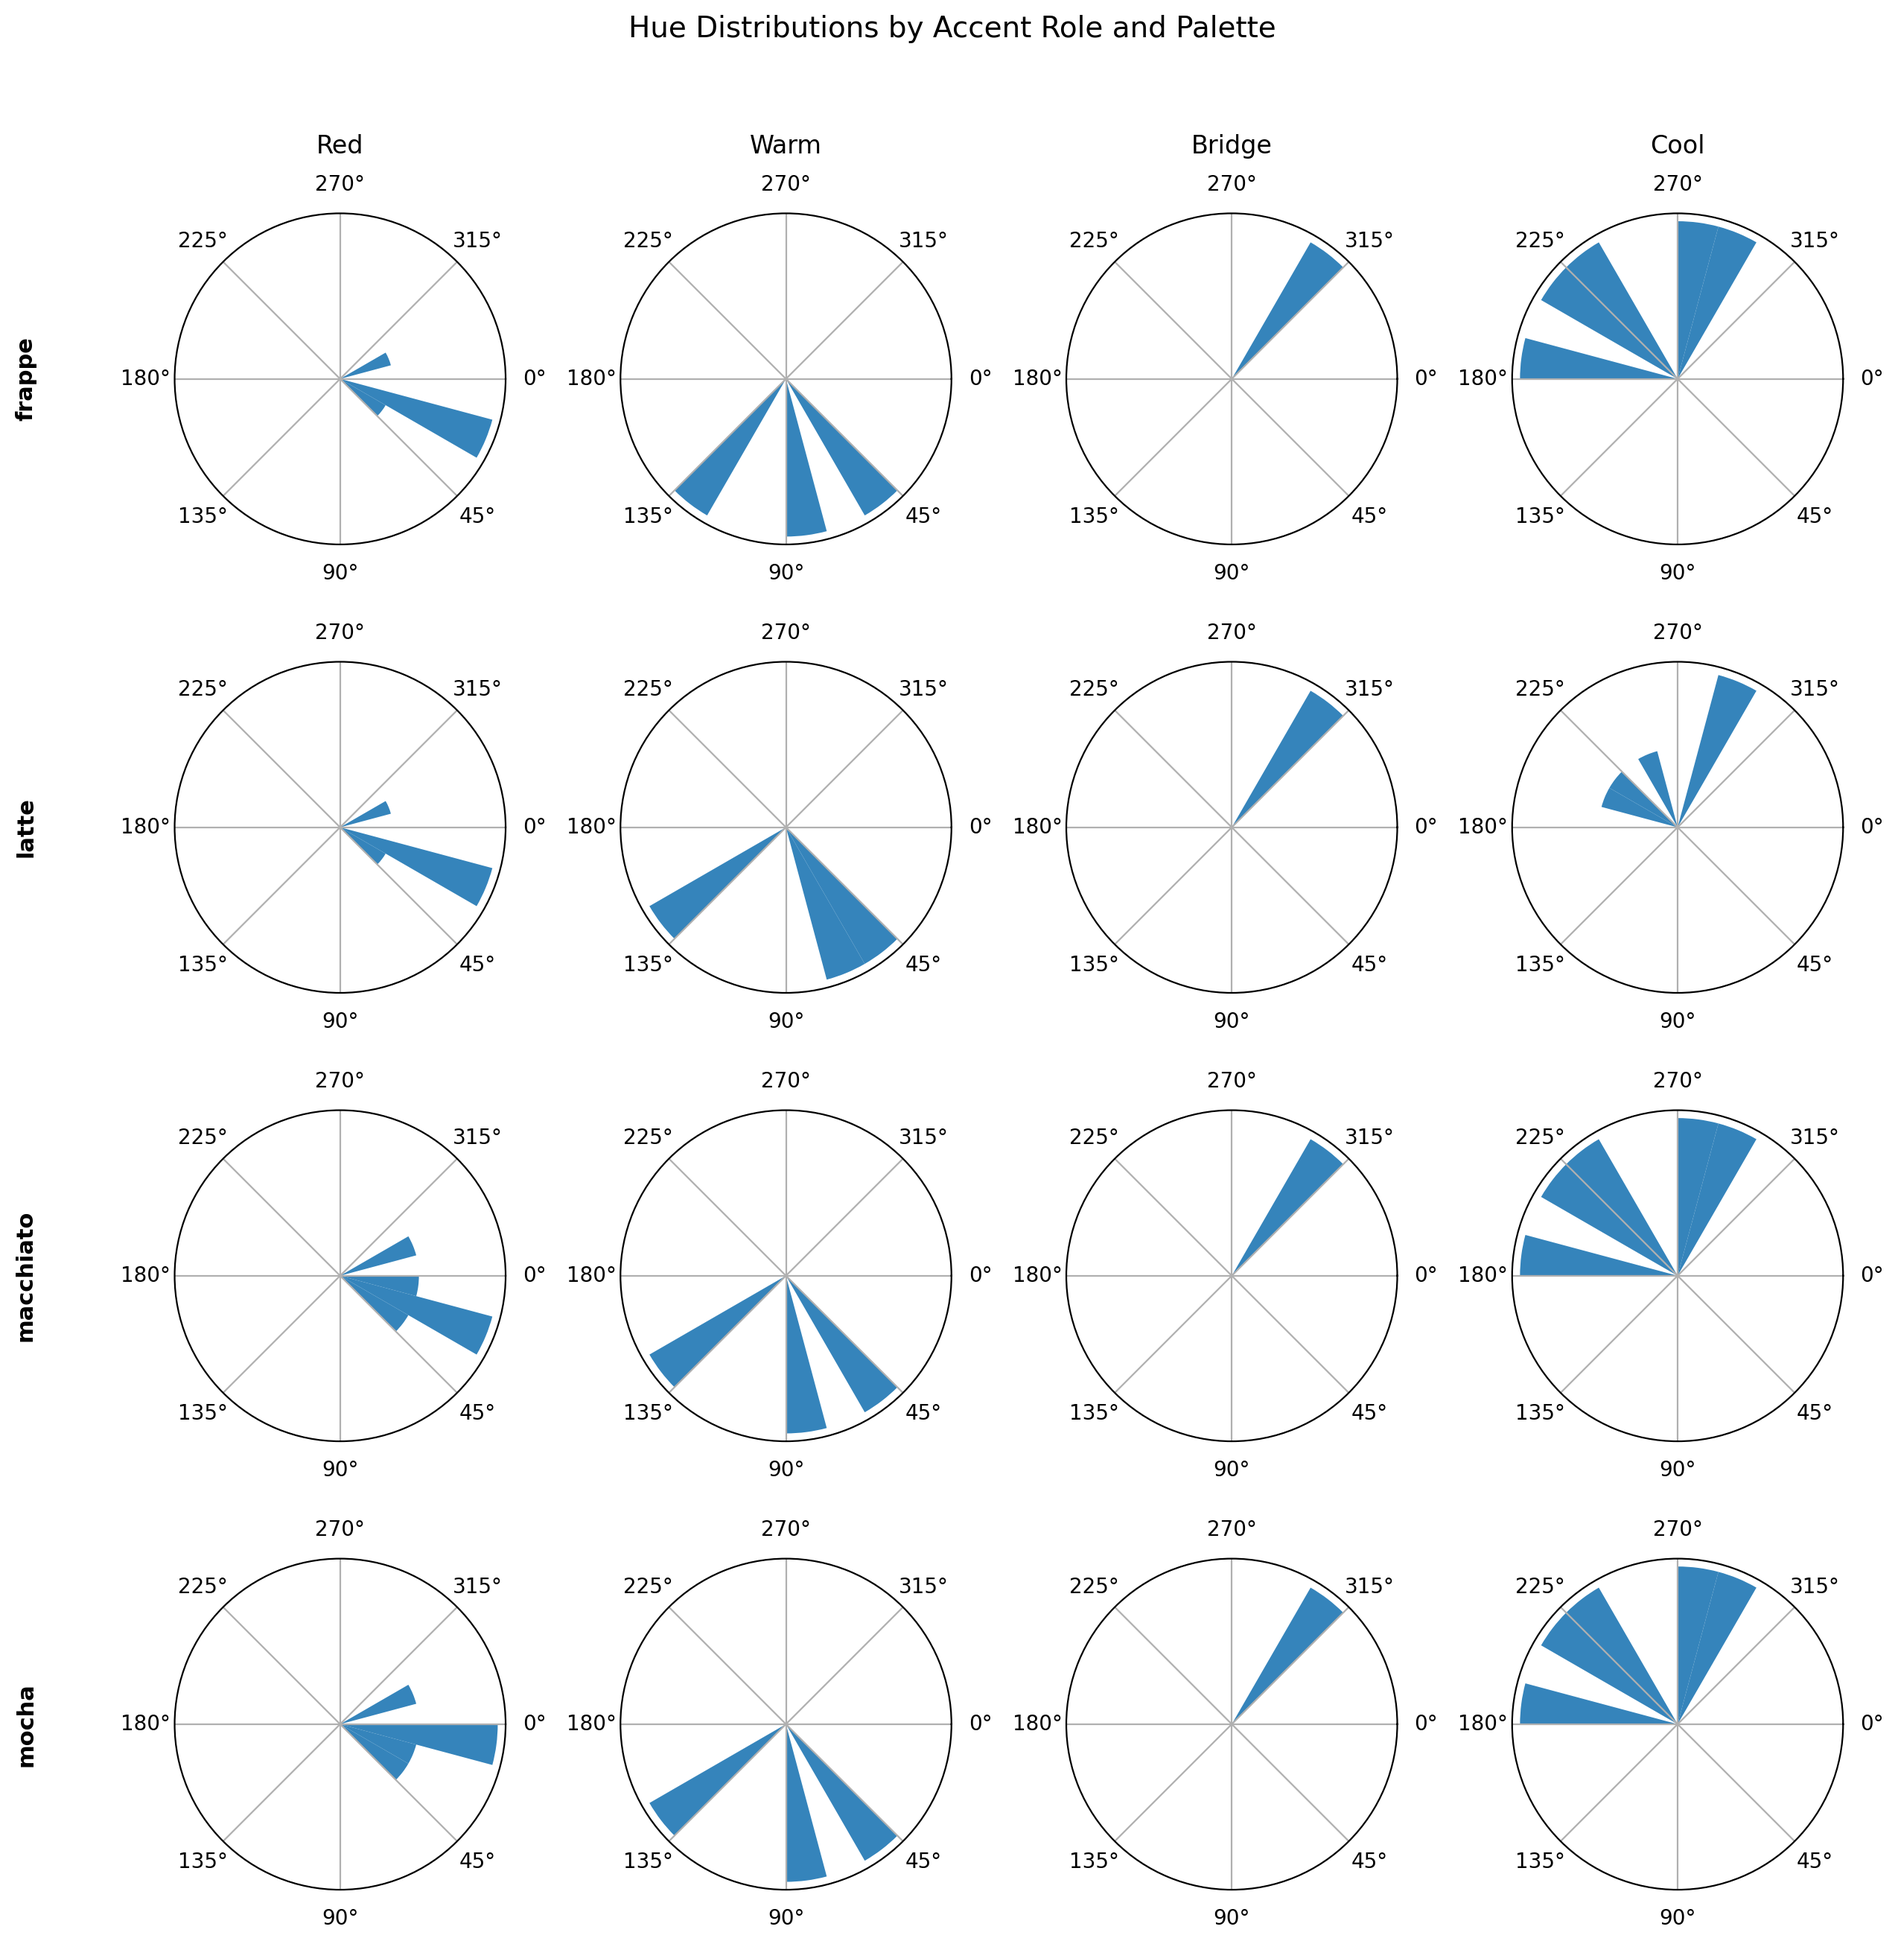
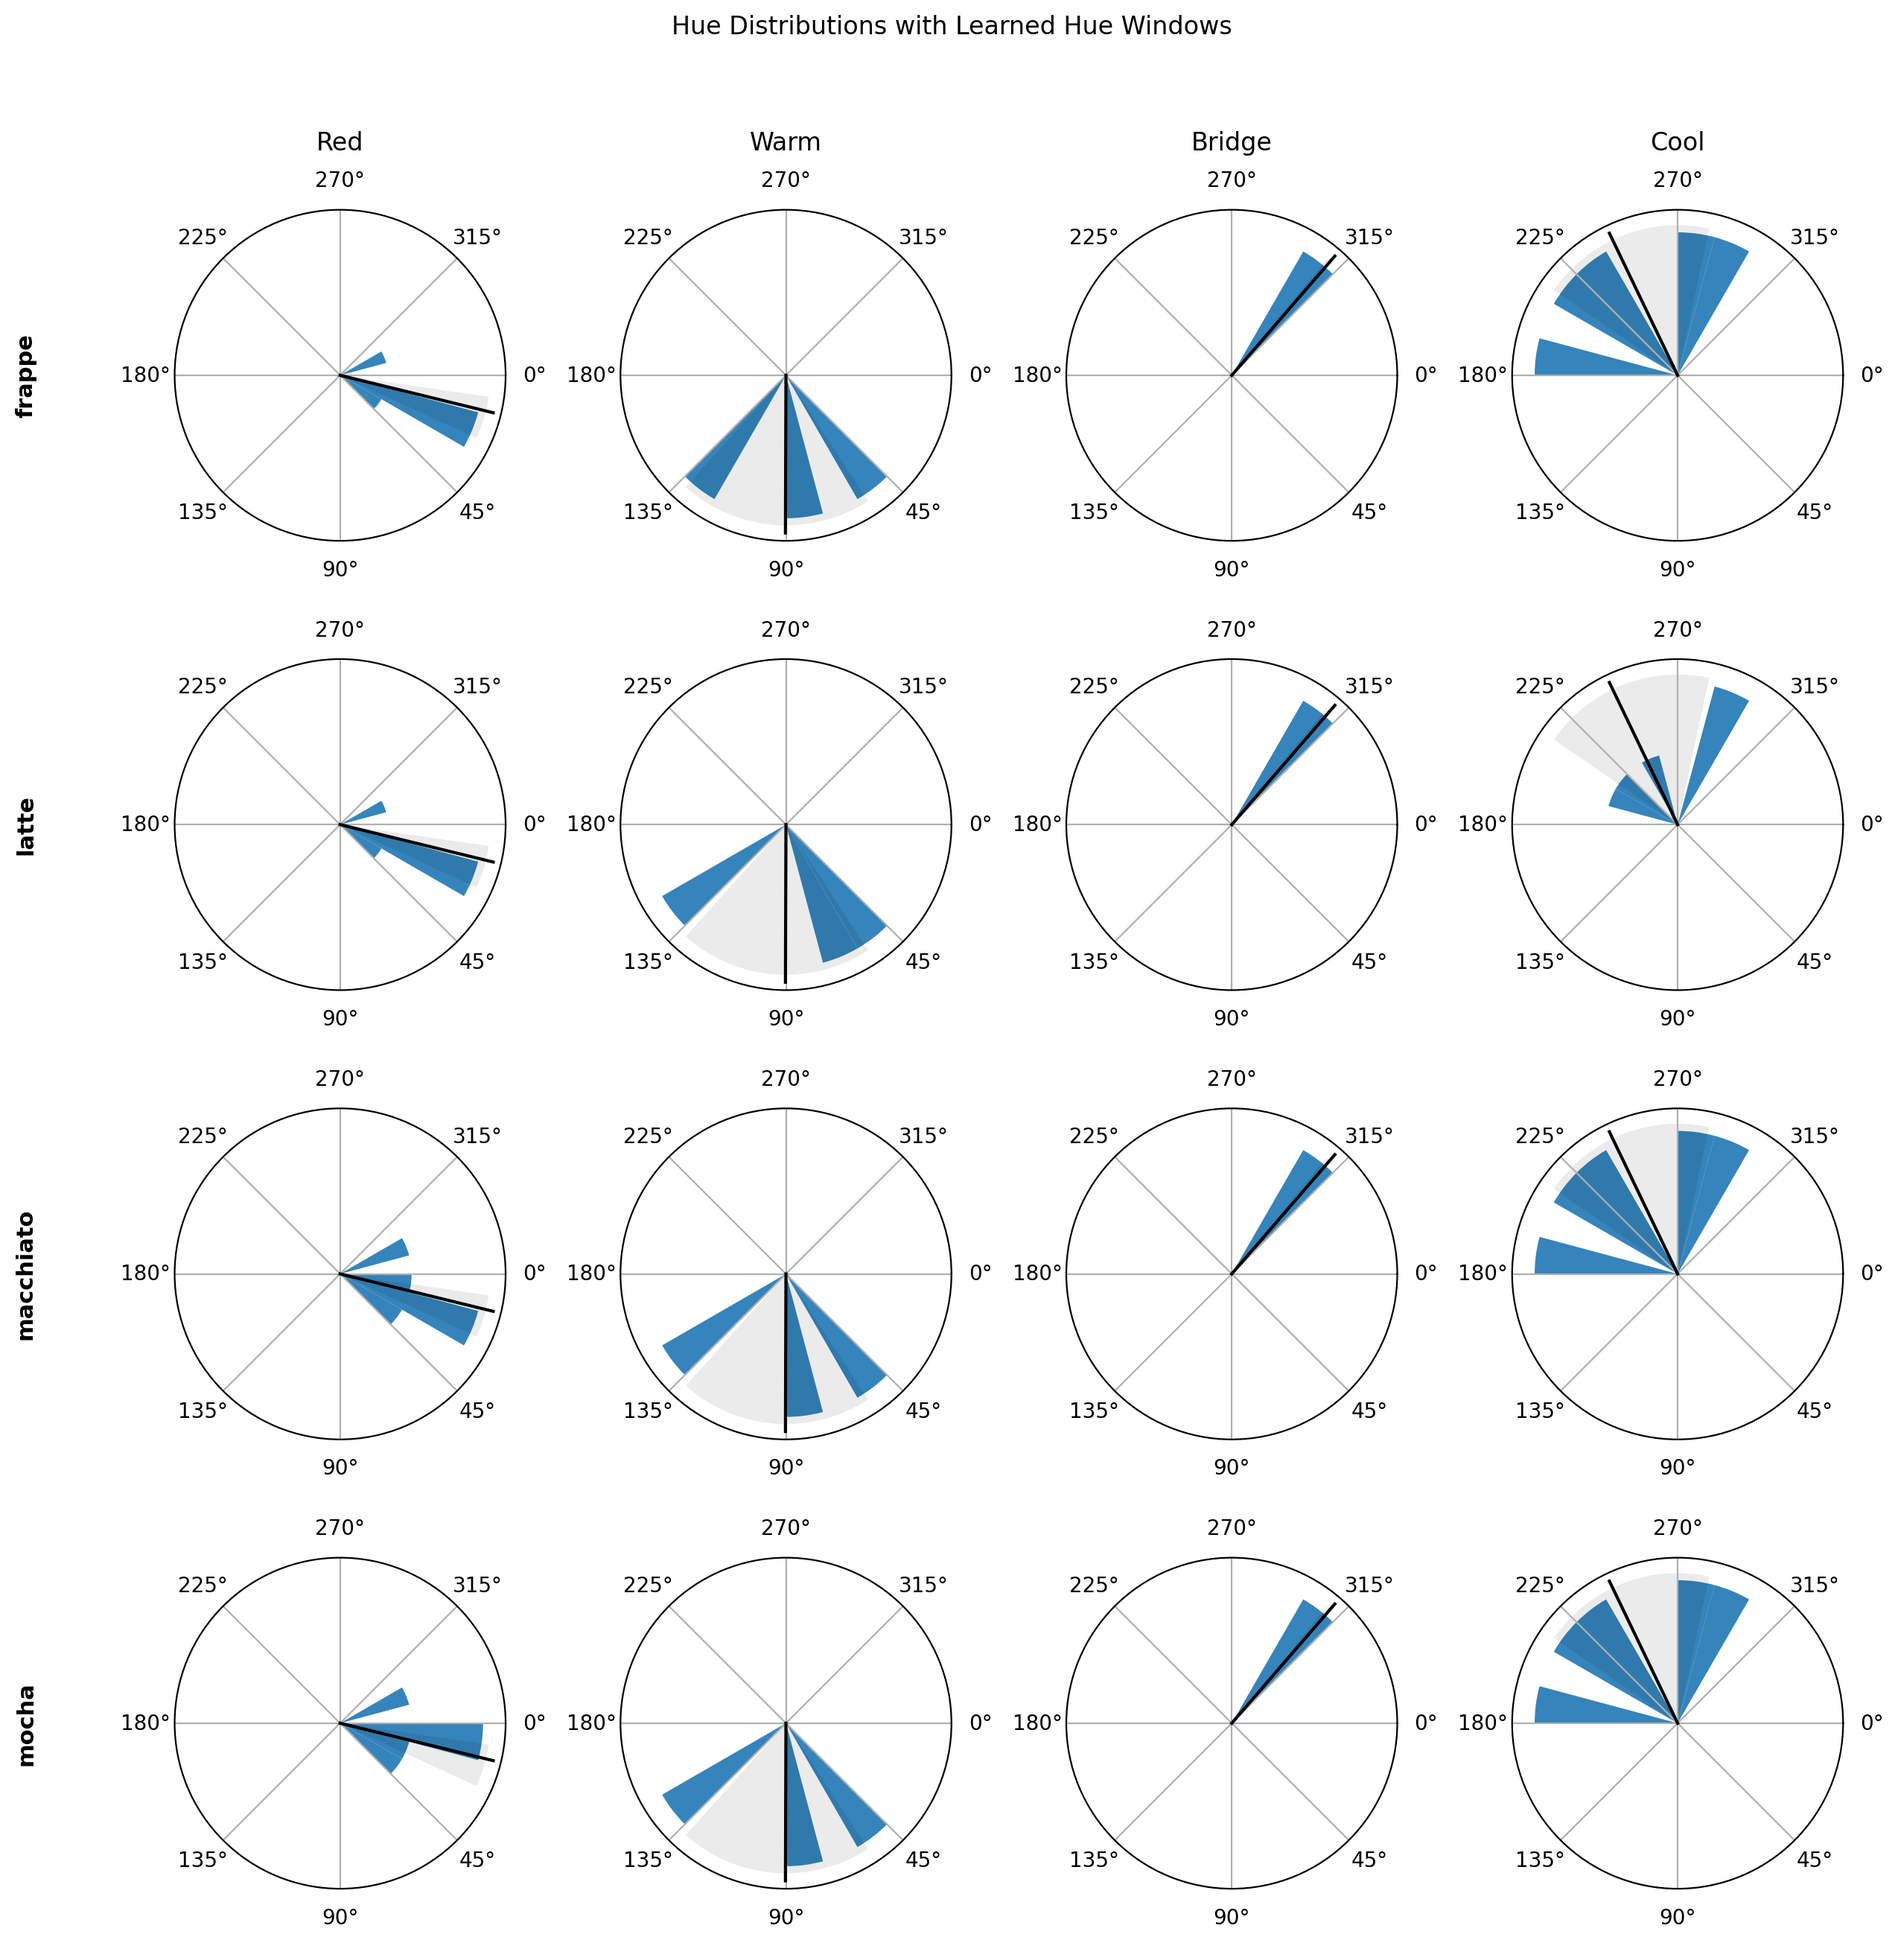
Hue plot constraint windows.

diff --git a/src/plot_hue_trend.py b/src/plot_hue_trend.py
@@ -26,9 +26,37 @@ ROLE_LABELS = {
 N_BINS = 24  # 15° bins
 
 
-# ------------------------------------------------------------
-# Plot
-# ------------------------------------------------------------
+def circular_mean(deg):
+    rad = np.deg2rad(deg)
+    return np.rad2deg(np.arctan2(np.mean(np.sin(rad)), np.mean(np.cos(rad)))) % 360
+
+
+def circular_quantile(deg, q):
+    """
+    Approximate circular quantile by unwrapping around circular mean.
+    Good enough for tight hue clusters (which we have).
+    """
+    mean = circular_mean(deg)
+    shifted = (deg - mean + 180) % 360 - 180
+    return (np.percentile(shifted, q * 100) + mean) % 360
+
+
+def compute_hue_windows(df):
+    """
+    Returns:
+      role -> dict(median, q25, q75)
+    """
+    windows = {}
+
+    for role, sub in df.groupby("role"):
+        hues = sub["hue_deg"].values
+        windows[role] = {
+            "median": circular_mean(hues),
+            "q25": circular_quantile(hues, 0.25),
+            "q75": circular_quantile(hues, 0.75),
+        }
+
+    return windows
 
 
 def plot_hue_faceted(csv_path: Path, out_png: Path):
@@ -37,14 +65,13 @@ def plot_hue_faceted(csv_path: Path, out_png: Path):
     palettes = sorted(df["palette"].unique())
     roles = [r for r in ROLE_ORDER if r in df["role"].unique()]
 
-    n_rows = len(palettes)
-    n_cols = len(roles)
+    hue_windows = compute_hue_windows(df)
 
     fig, axes = plt.subplots(
-        n_rows,
-        n_cols,
+        len(palettes),
+        len(roles),
         subplot_kw={"projection": "polar"},
-        figsize=(3.2 * n_cols, 3.2 * n_rows),
+        figsize=(3.2 * len(roles), 3.2 * len(palettes)),
         squeeze=False,
     )
 
@@ -59,15 +86,29 @@ def plot_hue_faceted(csv_path: Path, out_png: Path):
                 ax.axis("off")
                 continue
 
+            # histogram
             theta = np.deg2rad(sub["hue_deg"].values)
             bins = np.linspace(0, 2 * np.pi, N_BINS + 1)
 
-            ax.hist(
-                theta,
-                bins=bins,
-                density=True,
-                alpha=0.9,
+            ax.hist(theta, bins=bins, density=True, alpha=0.9)
+
+            # overlay hue window
+            w = hue_windows[role]
+            q25 = np.deg2rad(w["q25"])
+            q75 = np.deg2rad(w["q75"])
+            med = np.deg2rad(w["median"])
+
+            ax.bar(
+                x=(q25 + q75) / 2,
+                height=ax.get_ylim()[1],
+                width=(q75 - q25) % (2 * np.pi),
+                bottom=0,
+                color="black",
+                alpha=0.08,
+                align="center",
             )
+
+            ax.plot([med, med], [0, ax.get_ylim()[1]], color="black", lw=1.5)
 
             ax.set_theta_zero_location("E")
             ax.set_theta_direction(-1)
@@ -89,17 +130,10 @@ def plot_hue_faceted(csv_path: Path, out_png: Path):
                     fontweight="bold",
                 )
 
-    fig.suptitle(
-        "Hue Distributions by Accent Role and Palette",
-        y=1.02,
-        fontsize=14,
-    )
-
+    fig.suptitle("Hue Distributions with Learned Hue Windows", y=1.02)
     fig.tight_layout()
     fig.savefig(out_png, dpi=200, bbox_inches="tight")
     plt.close(fig)
-
-    print(f"✓ Saved {out_png}")
 
 
 if __name__ == "__main__":
